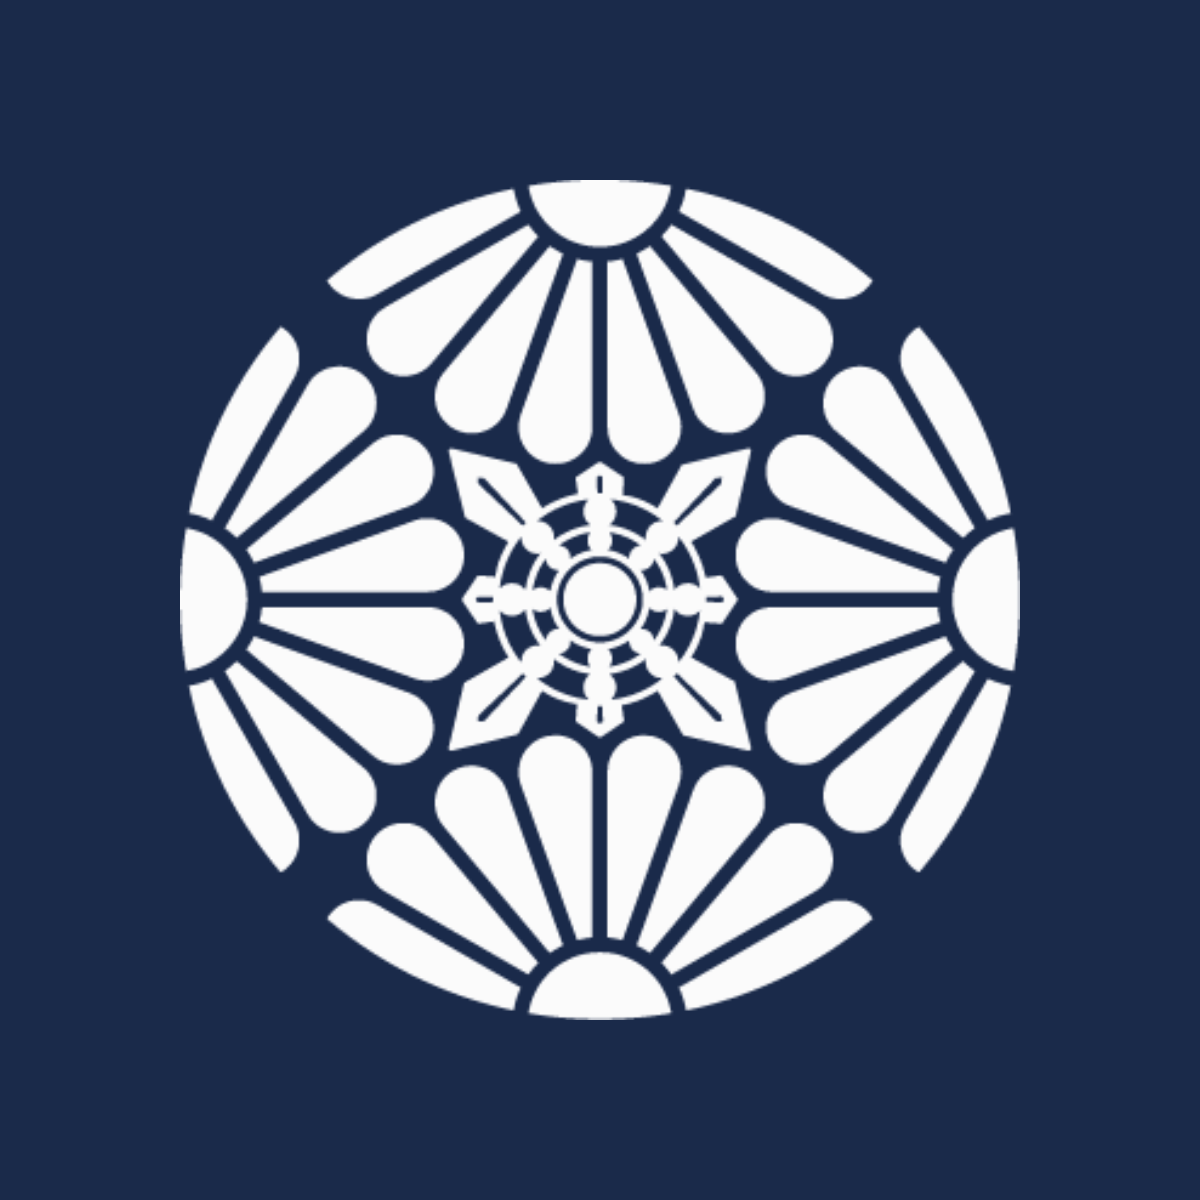
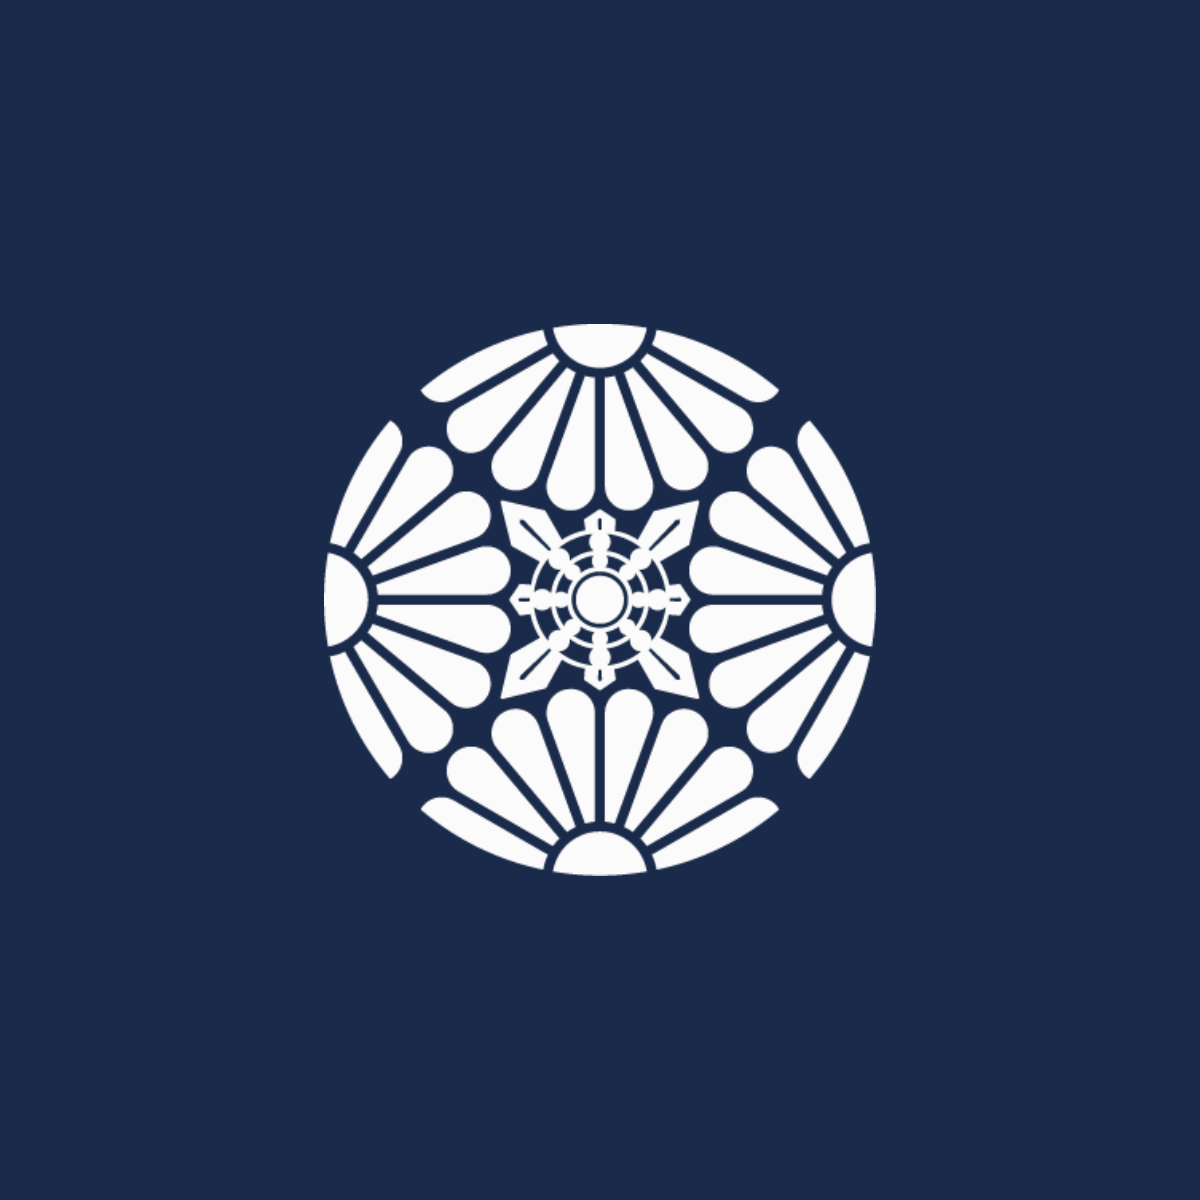
お知らせ: ヒーローには寺紋を出さない・寺紋を小さめに調整・一覧をシンプルな一覧表示に変更
- 詳細ページのカバー画像（ヒーロー）は画像なし時は非表示に戻す（元の挙動）
- 寺紋画像の紋の比率を70%→46%に縮小し、小さいアイコン表示でも違和感がないように調整
- お知らせ一覧ページをTOPページ同様、アイコン・日付・カテゴリー・タイトルのみの
  シンプルな一列リストに変更（大きな特集カードと抜粋表示を廃止）

Changed region(s): [[0.1233, 0.1233, 0.8633, 0.8633]]

diff --git a/src/app/[locale]/news/page.tsx b/src/app/[locale]/news/page.tsx
@@ -90,67 +90,26 @@ export default async function NewsPage({
           </div>
 
           {news.length > 0 ? (
-            <div className="space-y-6">
-              {/* 最新記事（大カード） */}
-              {news[0] && !category && (() => {
-                const title0 = pickLocalized(loc, news[0].title, news[0].title_en)
-                const excerpt0 = pickLocalized(loc, news[0].excerpt ?? '', news[0].excerpt_en)
-                const body0 = pickLocalized(loc, news[0].body, news[0].body_en)
+            <div className="bg-white rounded-xl shadow-sm overflow-hidden divide-y divide-gray-100">
+              {news.map(item => {
+                const title = pickLocalized(loc, item.title, item.title_en)
                 return (
-                  <Link href={`/news/${news[0].id}`} className="group block bg-white rounded-2xl shadow-sm overflow-hidden hover:-translate-y-1 transition-all">
-                    <div className="md:flex">
-                      <div className="md:w-80 h-52 md:h-auto flex-shrink-0 bg-cream-alt relative">
-                        <Image
-                          src={news[0].cover_url || '/images/jimon-navy.png'}
-                          alt={title0}
-                          fill
-                          className="object-cover group-hover:scale-105 transition-transform duration-300"
-                        />
-                      </div>
-                      <div className="p-6 flex flex-col justify-center">
-                        <div className="flex items-center gap-2 mb-3">
-                          <span className={`text-xs rounded px-2 py-0.5 ${CAT_COLORS[news[0].category] ?? 'bg-gray-100 text-gray-600'}`}>{CAT_LABELS[news[0].category] ?? news[0].category}</span>
-                          <time className="text-xs text-gray-400">
-                            {new Date(news[0].published_at ?? news[0].created_at).toLocaleDateString(dateLocale, { year:'numeric', month:'long', day:'numeric' })}
-                          </time>
-                        </div>
-                        <h2 className="font-serif text-xl text-navy mb-2 group-hover:text-gold transition-colors leading-snug">{title0}</h2>
-                        <p className="text-sm text-gray-500 leading-relaxed line-clamp-3">
-                          {excerpt0 || body0.slice(0, 100)}
-                        </p>
-                        <span className="mt-4 text-xs text-gold">{t('readMore')}</span>
-                      </div>
+                  <Link key={item.id} href={`/news/${item.id}`}
+                    className="flex items-center gap-4 px-5 py-4 hover:bg-cream-alt transition-colors group">
+                    <div className="w-10 h-10 flex-shrink-0 rounded-lg overflow-hidden relative bg-cream-alt">
+                      <Image src={item.cover_url || '/images/jimon-navy.png'} alt={title} fill className="object-cover" />
                     </div>
+                    <time className="text-xs text-gray-400 whitespace-nowrap w-24 flex-shrink-0">
+                      {new Date(item.published_at ?? item.created_at).toLocaleDateString(dateLocale)}
+                    </time>
+                    <span className="w-32 flex-shrink-0">
+                      <span className={`badge text-[13px] whitespace-nowrap ${CAT_COLORS[item.category] ?? 'bg-gray-100 text-gray-600'}`}>{CAT_LABELS[item.category] ?? item.category}</span>
+                    </span>
+                    <p className="flex-1 min-w-0 text-base text-navy group-hover:text-gold transition-colors leading-relaxed truncate">{title}</p>
+                    <span className="text-gray-300 group-hover:text-gold transition-colors flex-shrink-0 text-lg">›</span>
                   </Link>
                 )
-              })()}
-
-              {/* 残りの記事（リスト） */}
-              <div className="bg-white rounded-xl shadow-sm overflow-hidden divide-y divide-gray-100">
-                {(category ? news : news.slice(1)).map(item => {
-                  const title = pickLocalized(loc, item.title, item.title_en)
-                  const excerpt = pickLocalized(loc, item.excerpt ?? '', item.excerpt_en)
-                  return (
-                    <Link key={item.id} href={`/news/${item.id}`}
-                      className="flex items-start gap-4 px-5 py-4 hover:bg-cream-alt transition-colors group">
-                      <div className="w-16 h-16 flex-shrink-0 rounded-lg overflow-hidden relative bg-cream-alt">
-                        <Image src={item.cover_url || '/images/jimon-navy.png'} alt={title} fill className="object-cover" />
-                      </div>
-                      <div className="flex-1 min-w-0">
-                        <div className="flex items-center gap-2 mb-1">
-                          <span className={`text-[10px] rounded px-1.5 py-0.5 ${CAT_COLORS[item.category] ?? 'bg-gray-100 text-gray-600'}`}>{CAT_LABELS[item.category] ?? item.category}</span>
-                          <time className="text-xs text-gray-400">
-                            {new Date(item.published_at ?? item.created_at).toLocaleDateString(dateLocale)}
-                          </time>
-                        </div>
-                        <p className="text-sm font-medium text-navy group-hover:text-gold transition-colors leading-snug">{title}</p>
-                        {excerpt && <p className="text-xs text-gray-400 mt-0.5 line-clamp-1">{excerpt}</p>}
-                      </div>
-                      <span className="text-gray-300 group-hover:text-gold transition-colors flex-shrink-0 text-lg">›</span>
-                    </Link>
-                  )
-                })}
-              </div>
+              })}
             </div>
           ) : (
             <div className="text-center py-20 text-gray-400">

diff --git a/src/app/[locale]/news/[id]/page.tsx b/src/app/[locale]/news/[id]/page.tsx
@@ -88,10 +88,12 @@ export default async function NewsDetailPage({
         </div>
 
         {/* カバー画像 */}
-        <div className="relative h-56 md:h-72">
-          <ZoomableImage src={news.cover_url || '/images/jimon-navy.png'} alt={title} fill className="object-cover" />
-          {news.cover_url && <div className="absolute inset-0 bg-navy/30" />}
-        </div>
+        {news.cover_url && (
+          <div className="relative h-56 md:h-72">
+            <ZoomableImage src={news.cover_url} alt={title} fill className="object-cover" />
+            <div className="absolute inset-0 bg-navy/30" />
+          </div>
+        )}
 
         <div className="max-w-3xl mx-auto px-4 py-10">
           <div className="bg-white rounded-2xl shadow-sm p-8">
